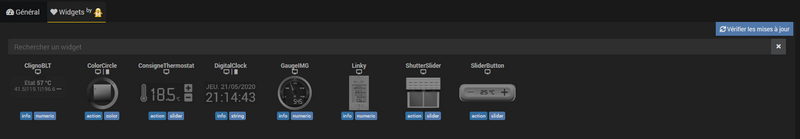
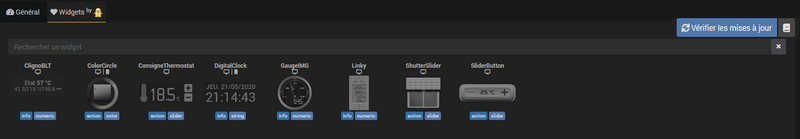
some changes

Changed region(s): [[0.8438, 0.1151, 1.0, 0.2878]]

diff --git a/pimpJeedom/fr_FR/index.md b/pimpJeedom/fr_FR/index.md
@@ -74,6 +74,10 @@ Pour voir et modifier le code du widget.
 
 Pour accéder aux widgets réalisés par Salvialf cliquez sur le bouton **Widgets made by Salvialf** ou sur l'onglet **Widgets by** ![Salvialf](../../assets/images/tuxalf.png "Salvialf") :    
 ![Widgets by Salvialf](../img/bySalvialf.png "Widgets by Salvialf")
+
+Sur la page d'accueil nous retrouvons en haut à droite un bouton bleu permettant de vérifier les mises à jour de widgets ainsi qu'une icône en forme de livre qui ouvre un lien vers la documentation du plugin spécifique à cette partie.
+
+Au milieu se trouve les tuiles représentant la liste des widgets disponibles.
 >**Info**      
 >Les widgets non installés apparaissent en grisés et sont colorés si le widget est installé.
 
@@ -133,3 +137,7 @@ En cliquant sur le widget disposant d'une mise à jour on constate que le champ 
 Énormément d'évolutions sont prévues pour ce plugin afin de pouvoir modifier facilement votre Jeedom.
 
 Dans un 1er temps chaque widget disposera d'une documentation avec un accès direct depuis le plugin.
+
+# Changelog
+
+[Voir le changelog]({{site.baseurl}}/{{page.pluginId}}/{{page.lang}}/changelog)

diff --git a/pimpJeedom/fr_FR/changelog.md b/pimpJeedom/fr_FR/changelog.md
@@ -5,7 +5,13 @@ lang: fr_FR
 pluginId: pimpJeedom
 ---
 
-# 28-05-2020
+# Changelog
+
+## 01-06-2020
+
+- Passage du plugin en STABLE.
+
+## 28-05-2020
 
 - Mise à disposition du plugin en BETA.
 
